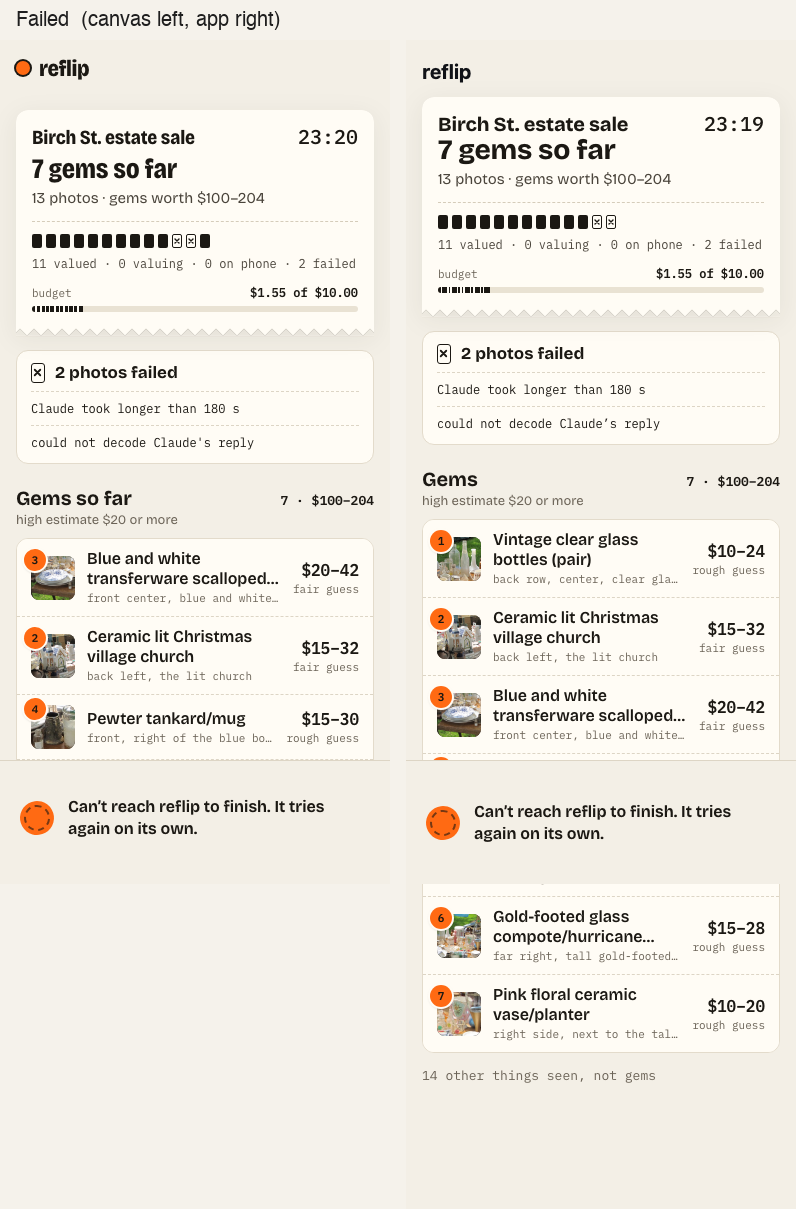
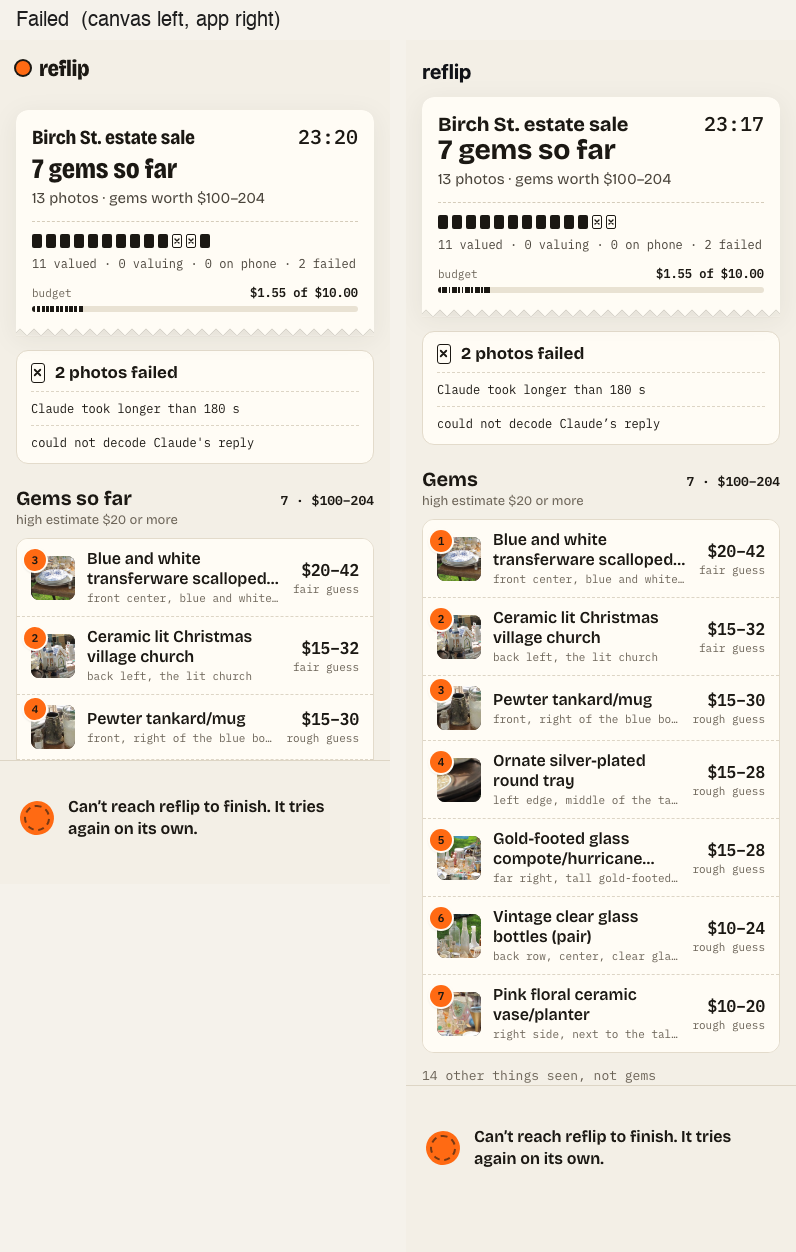
Fix haul receipt copy and 3 haul-shots.mjs measurement bugs
- App.res: receipt hero now says "N gems"/"1 gem"/"No gems this time",
  matching the design canvas instead of "N gems hauled".
- haul-shots.mjs: doneAutoRetryMs was diffing the first two POST /done
  calls of the whole run (Finishing's hung call vs Done's success call),
  not a retry pair. Now tags each call with its board name and measures
  the gap between the Failed board's own first two calls; the click-path
  row says FAILED if that board gets fewer than two.
- haul-shots.mjs: mock gems were served in canvas number order; sort them
  by estimateLowUsd descending first, matching src/HaulStatus.res so the
  shots show the order the real API returns.
- haul-shots.mjs: shoot() grows the viewport to the page's scrollHeight
  before a full-page screenshot so the fixed-position dock and finishing
  bar land at the bottom instead of drawn over the middle of the page,
  then restores 390x844.
- Re-ran the script; regenerated docs/shots/haul-ui/ compare images and
  click-path.md.

diff --git a/docs/shots/haul-ui/click-path.md b/docs/shots/haul-ui/click-path.md
@@ -15,6 +15,6 @@ See scripts/haul-shots.mjs.
 | The same gem closes | Tapping an open row's own header closes it | ok — .haul-gem-detail count after close = 0 (expected 0) |
 | Sold link href (blocked) | a.scan-ebay-sold-btn points at ebay.com; the tap is blocked network-side | ok — href=https://www.ebay.com/sch/i.html?_nkw=vintage%20blue%20white%20transferware%20scalloped%20bowl%20plates&LH_Sold=1&LH_Complete=1, popup opened then blocked (chrome-error, per route.abort) |
 | Done (Finishing) | Tapping Done moves phase to Finishing; the dock bar replaces the controls | ok — Finishing board (.haul-bar present) |
-| Done auto-retry | A failed Done retries once on its own after ~5 s (AppState.retryDelayMs(1)) | ok — second POST /done arrived 3186 ms after the first (Failed board) |
+| Done auto-retry | A failed Done retries once on its own after ~5 s (AppState.retryDelayMs(1)) | ok — second POST /done arrived 5017 ms after the first (Failed board) |
 | The receipt | Once emailedAt is set, phase Finished shows the Haul Receipt section | ok — Done board (section[aria-label='Haul receipt']) |
 | Start a new haul | Tapping it on the receipt returns to the Ready screen (NoHaul) | ok — Done-after-new-haul shot (.haul-ready-start reappeared) |
